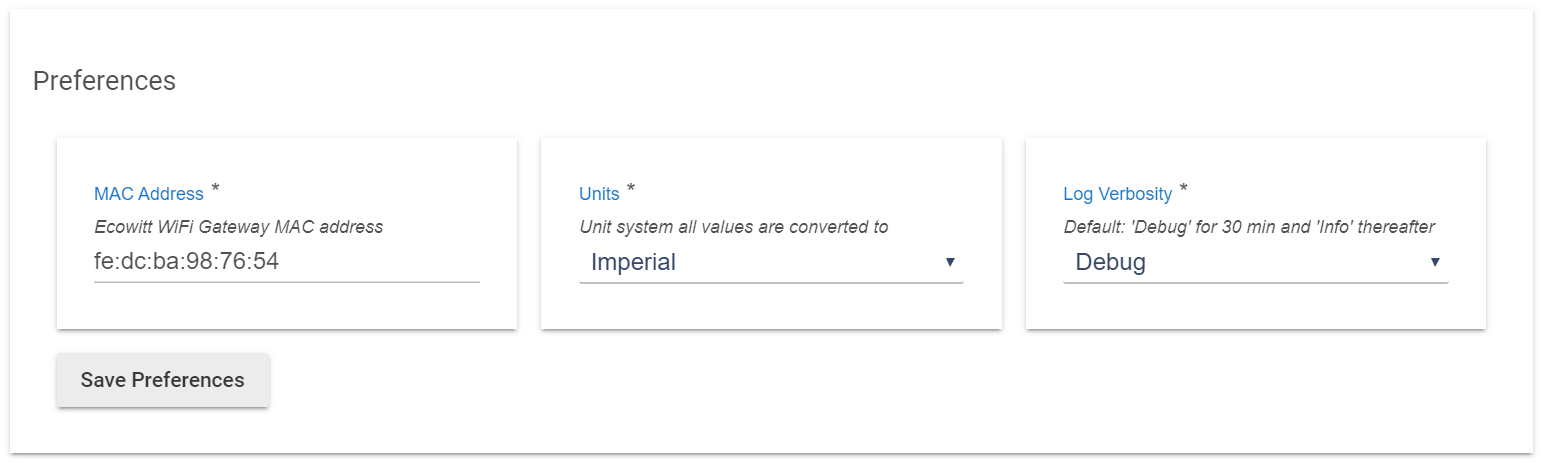
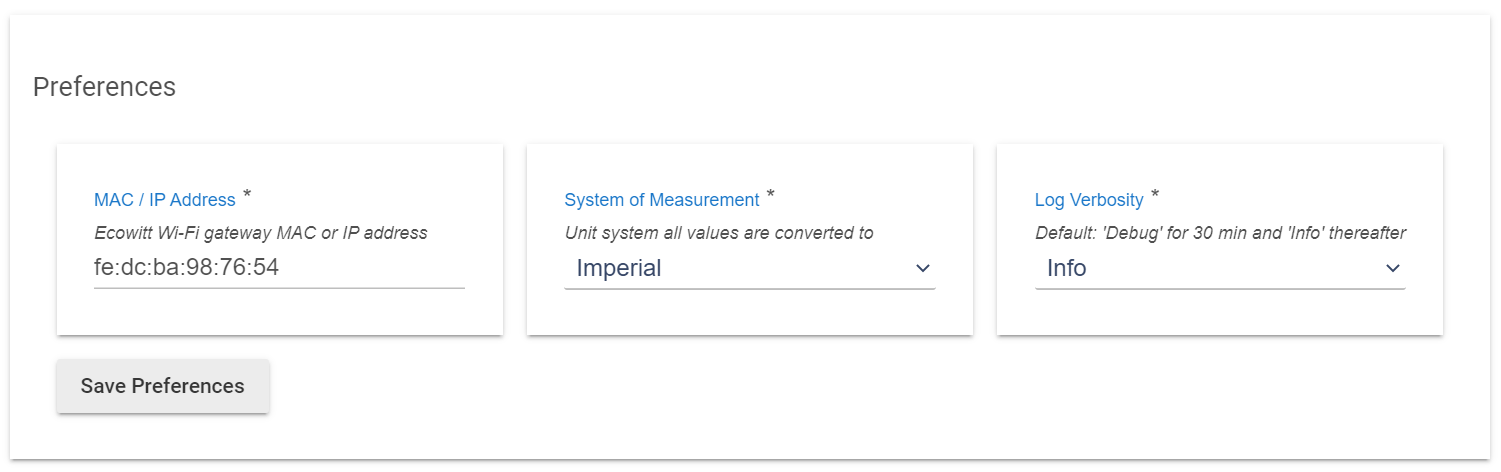
added support for both MAC and IP addresses

diff --git a/readme.md b/readme.md
@@ -36,7 +36,7 @@
 
     <img src="https://github.com/mircolino/ecowitt/raw/master/images/D05.png">
 
-4.  Enter the Gateway MAC address (in any legal form) and click "Save Preferences":
+4.  Enter the Gateway MAC or IP address (in any legal form) and click "Save Preferences":
 
     <img src="https://github.com/mircolino/ecowitt/raw/master/images/D06.png">
 
